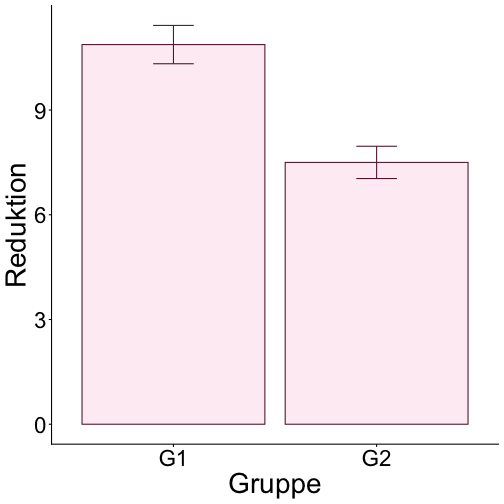
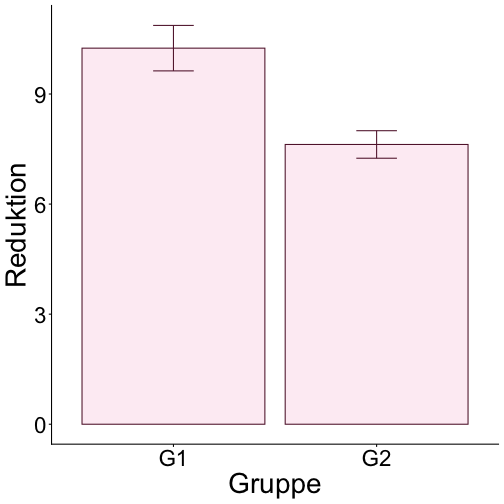
“update”

diff --git a/Statistik_I_08.html b/Statistik_I_08.html
@@ -463,13 +463,11 @@ class: top, left
 * `\(H_0\)`: `\(σ_1^2 = σ_2^2\)`
 * `\(H_1\)`: `\(σ_1^2 \neq σ_2^2\)`
 
-Teststatistik:
-
-`$$F=\frac{\hat{\sigma}^2_1}{\hat{\sigma}^2_2}; df_1 = n_1 − 1, df_2 = n_2 − 1$$`
+&gt;Formel: `$$F=\frac{\hat{\sigma}^2_1}{\hat{\sigma}^2_2}; df_1 = n_1 − 1, df_2 = n_2 − 1$$`
 
 * Voraussetzungen: NV in jeder Population
 
-* ACHTUNG: Größere Varianz muss im Zähler stehen!
+* ACHTUNG: **Größere** Varianz muss im Zähler stehen!
 
 * `\(H_0\)`: `\(σ_1^2 = σ_2^2\)` wird verworfen, wenn `\(F &gt; F(df_1,df_2,1−α/2)\)` (kritischer Wert)
 
@@ -562,7 +560,7 @@ class: top, left
 
 * `\(t\)` ist der Wert, welcher auf der t-Verteilung liegt und uns eine Wahrscheinlichkeitseinschätzung für die Mittelwertsdifferenz erlaubt:
 
-`$$t = \frac{\bar{x}_{1}- \bar{x}_{2}}{\sqrt{\frac{(n_{1} - 1) \cdot \hat{\sigma^2_{1}}+ (n_{2} - 1) \cdot \hat{\sigma^2_{2}}}{(n_{1} - 1) + (n_{2} - 1)} (\frac{1}{n_{1}}+\frac{1}{n_{2}})}}; df=n_{1}+n_{2} - 2$$`
+&gt;Formel: `$$t = \frac{\bar{x}_{1}- \bar{x}_{2}}{\sqrt{\frac{(n_{1} - 1) \cdot \hat{\sigma^2_{1}}+ (n_{2} - 1) \cdot \hat{\sigma^2_{2}}}{(n_{1} - 1) + (n_{2} - 1)} (\frac{1}{n_{1}}+\frac{1}{n_{2}})}}; df=n_{1}+n_{2} - 2$$`
 
 Verbal:
 
@@ -731,11 +729,73 @@ $$
 * z.B. `\(d=1\)` bedeutet `\(\bar{x}_1\)` ist eine Standardabweichung höher als `\(\bar{x}_2\)`
 
 
+
 |Effektstärke     |Cohen's d       |
 |:----------------|:---------------|
 |Kleiner Effekt   |&amp;#124;0.2&amp;#124; |
 |Mittlerer Effekt |&amp;#124;0.5&amp;#124; |
 |Großer Effekt    |&amp;#124;0.8&amp;#124; |
+]
+
+---
+class: top, left
+
+### Effektstärke und Powerberechnung
+
+#### Hedge’s g (oft auch einfach nur d geschrieben)
+
+* Eine Variation von Cohen's d ist Hedge's g, welche ähnlich berechnet wird. 
+
+* Der Unterschied besteht darin, dass bei der Berechnung von Hedge's g die Varianzen nicht nur miteinander verbunden, sondern auch durch die Bessel-Korrektur (n-1) korrigiert werden. 
+
+* Diese Korrektur reduziert insbesondere bei kleinen Stichproben (n &lt; 20) den Fehler der Schätzung.
+
+.pull-left[
+&gt;Formel: `$$g=\frac{\bar{x}_1 - \bar{x}_2}{\sqrt{\frac{(n_1-1)  \cdot s^2_1 + (n_2-1)  \cdot s^2_2}{n_1 + n_2 - 2}}}$$`
+]
+
+&lt;small&gt;
+
+.pull-right[
+
+&lt;br&gt;
+
+
+|Effektstärke     |Hedge's g       |
+|:----------------|:---------------|
+|Kleiner Effekt   |&amp;#124;0.2&amp;#124; |
+|Mittlerer Effekt |&amp;#124;0.5&amp;#124; |
+|Großer Effekt    |&amp;#124;0.8&amp;#124; |
+]
+
+---
+class: top, left
+
+### Effektstärke und Powerberechnung
+
+#### Glass’s `\(Δ\)`
+
+* Glass’s delta gehört zu der gleichen Familie, wie die bereits vorgestellten Formeln von Cohen und Hedge. 
+
+* Glass’s Δ wurde ursprünglich für experimentelle Studien entwickelt. Anstatt eine gepoolte oder Besselkorrigierte Standardabweichung zu verwenden, wird einfach die Standardabweichung der Kontrollgruppe verwendet. 
+
+* Die Idee dahinter ist, dass die Kontrollgruppe kein Treatment bekommen hat und daher die Standardabweichung der Grundgesamtheit eher wiedergibt.
+
+.pull-left[
+&gt;Formel: `$$Δ=\frac{\bar{x}_1 - \bar{x}_2}{\sigma_{control}}$$`
+]
+
+.pull-right[
+
+&lt;small&gt;
+
+
+|Effektstärke     |Glass’s Δ       |
+|:----------------|:---------------|
+|Kleiner Effekt   |&amp;#124;0.2&amp;#124; |
+|Mittlerer Effekt |&amp;#124;0.5&amp;#124; |
+|Großer Effekt    |&amp;#124;0.8&amp;#124; |
+
 ]
 
 ---
@@ -886,7 +946,7 @@ class: top, left
 * `\(\bar{x}_d=0.722\)` und `\(\hat{\sigma}_d=4.186\)`
 * `\(\alpha=.05\)`
 
-`$$t_{abhängig}=\frac{\bar{x}_d}{\hat{\sigma}_{\bar{x}_d}}= \frac{\bar{x}_d}{\frac{\hat{\sigma}_d}{\sqrt{N}}}=\frac{0.722}{\frac{4.186}{\sqrt{36}}}=\frac{0.722}{0.698}=1.035$$`
+`$$t=\frac{\bar{x}_d}{\hat{\sigma}_{\bar{x}_d}}= \frac{\bar{x}_d}{\frac{\hat{\sigma}_d}{\sqrt{N}}}=\frac{0.722}{\frac{4.186}{\sqrt{36}}}=\frac{0.722}{0.698}=1.035$$`
 * kritischer Wert (nächster df Wert in Tabelle ist 30) von `\(t_{30,0.975}=2.042\)`
 
 * t-Wert ist nicht größer als kritischer Wert.
@@ -918,18 +978,18 @@ Beispiel: Vergleich der Reduktion von Symptomatik zwischen 2 Gruppen `\((N=16)\)
   &lt;tr&gt;
    &lt;td style="text-align:left;"&gt; G1 &lt;/td&gt;
    &lt;td style="text-align:right;"&gt; 10.88 &lt;/td&gt;
-   &lt;td style="text-align:right;"&gt; 1.55 &lt;/td&gt;
+   &lt;td style="text-align:right;"&gt; 2.53 &lt;/td&gt;
   &lt;/tr&gt;
   &lt;tr&gt;
    &lt;td style="text-align:left;"&gt; G2 &lt;/td&gt;
-   &lt;td style="text-align:right;"&gt; 7.50 &lt;/td&gt;
-   &lt;td style="text-align:right;"&gt; 1.31 &lt;/td&gt;
+   &lt;td style="text-align:right;"&gt; 7.12 &lt;/td&gt;
+   &lt;td style="text-align:right;"&gt; 1.89 &lt;/td&gt;
   &lt;/tr&gt;
 &lt;/tbody&gt;
 &lt;/table&gt;
 
 .center[
-&lt;img src="Statistik_I_08_files/figure-html/unnamed-chunk-12-1.png" alt="" width="250px" /&gt;
+&lt;img src="Statistik_I_08_files/figure-html/unnamed-chunk-14-1.png" alt="" width="250px" /&gt;
 ]
 ]
 .pull-right[
@@ -944,13 +1004,13 @@ t.test(Reduktion ~ Gruppe, data = df, var.equal = T)
 ## 	Two Sample t-test
 ## 
 ## data:  Reduktion by Gruppe
-## t = 4.7001, df = 14, p-value = 0.0003411
+## t = 3.3601, df = 14, p-value = 0.004669
 ## alternative hypothesis: true difference in means between group G1 and group G2 is not equal to 0
 ## 95 percent confidence interval:
-##  1.834892 4.915108
+##  1.356341 6.143659
 ## sample estimates:
 ## mean in group G1 mean in group G2 
-##           10.875            7.500
+##           10.875            7.125
 ```
 ]
 ]
@@ -979,19 +1039,19 @@ Beispiel: Prüfung, ob Symptomreduktion zwischen 2 Zeitpunkten signifikant ist `
 &lt;tbody&gt;
   &lt;tr&gt;
    &lt;td style="text-align:left;"&gt; T1 &lt;/td&gt;
-   &lt;td style="text-align:right;"&gt; 10.50 &lt;/td&gt;
-   &lt;td style="text-align:right;"&gt; 2.33 &lt;/td&gt;
+   &lt;td style="text-align:right;"&gt; 9.88 &lt;/td&gt;
+   &lt;td style="text-align:right;"&gt; 1.73 &lt;/td&gt;
   &lt;/tr&gt;
   &lt;tr&gt;
    &lt;td style="text-align:left;"&gt; T2 &lt;/td&gt;
-   &lt;td style="text-align:right;"&gt; 7.62 &lt;/td&gt;
-   &lt;td style="text-align:right;"&gt; 1.92 &lt;/td&gt;
+   &lt;td style="text-align:right;"&gt; 5.88 &lt;/td&gt;
+   &lt;td style="text-align:right;"&gt; 1.25 &lt;/td&gt;
   &lt;/tr&gt;
 &lt;/tbody&gt;
 &lt;/table&gt;
 
 .center[
-&lt;img src="Statistik_I_08_files/figure-html/unnamed-chunk-16-1.png" alt="" width="250px" /&gt;
+&lt;img src="Statistik_I_08_files/figure-html/unnamed-chunk-18-1.png" alt="" width="250px" /&gt;
 ]
 ]
 .pull-right[
@@ -1006,13 +1066,13 @@ t.test(df$Reduktion[df$Messung == "T1"], df$Reduktion[df$Messung == "T2"], paire
 ## 	Paired t-test
 ## 
 ## data:  df$Reduktion[df$Messung == "T1"] and df$Reduktion[df$Messung == "T2"]
-## t = 2.4225, df = 7, p-value = 0.04592
+## t = 4.5126, df = 7, p-value = 0.002756
 ## alternative hypothesis: true mean difference is not equal to 0
 ## 95 percent confidence interval:
-##  0.06867599 5.68132401
+##  1.903985 6.096015
 ## sample estimates:
 ## mean difference 
-##           2.875
+##               4
 ```
 ]
 ]
